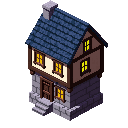
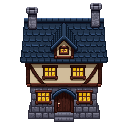
Casa de frente, escada que existe, e movel que para de entrar na parede
🔴 A ESCADA NAO EXISTIA COMO ARTE, so como mecanica. O `>` da planta virava
`stone_slab` — uma laje — e o link que sobe ja funcionava. Subia-se por um
pedaco de chao sem nada a vista. O dono: *"nao tem escada, construa ela"*.
✅ Agora ela e desenhada como movel MAS o tile continua `stone_slab`, ANDAVEL:
o servidor consulta o `floorLink` so DEPOIS de aprovar o passo, entao escada
solida seria escada que ninguem sobe. Precisa das duas coisas, e cada uma vem
de um lugar.

✅ A CASA VIROU DE FRENTE. A primeira saiu em tres quartos, com a porta na face
ESQUERDA — mas o jogador chega pelo SUL, onde a planta poe a porta. Ele
atravessava a fachada num ponto sem porta nenhuma no desenho.
⚠ Nao e capricho de angulo: em jogo top-down o jogador so encosta na casa pelas
quatro direcoes da grade, e a porta tem de cair numa delas.

🔴 E O "MOVEL ENTRANDO NA PAREDE" tinha causa no MOTOR, nao no meu desenho: ele
desenha parede com efeito 2.5D, e a face dela sobe `WALL_H` px **cobrindo o tile
de cima**. Movel na fileira logo acima da parede de baixo fica ATRAS dessa face,
e o zIndex confirma — a parede (linha maior) desenha por cima.
✅ A mobilia saiu dessa fileira. A parede de CIMA nao tem o problema, porque
sobe para fora do comodo: por isso os moveis se encostam no topo e nas laterais,
nunca na base.
✅ Mais 10% de folga no desenho do bloco, para o movel nao lamber a borda.

Verificado: a escada e andavel, tem link e e desenhada nos dois andares; e
[…]

diff --git a/shared/src/buildings.ts b/shared/src/buildings.ts
@@ -213,12 +213,22 @@ export const ANDARES: readonly AndarDef[] = [
      *
      * A porta é o `e` na parede de baixo — um VÃO, sem link nenhum.
      */
+    /*
+     * ⚠ A FILEIRA LOGO ACIMA DA PAREDE DE BAIXO FICA LIVRE, de propósito.
+     *
+     * O motor desenha parede com efeito 2.5D: a face dela sobe `WALL_H` px e
+     * **cobre o tile de cima**. Móvel ali é desenhado ATRÁS dessa face, e o
+     * dono viu como *"objetos entrando dentro da parede"*.
+     *
+     * A parede de cima não tem esse problema — ela sobe para fora do cômodo.
+     * Por isso a mobília se encosta no topo e nas laterais, nunca na base.
+     */
     planta: [
       '#######',
       '#M...K#',
       '#..>..#',
-      '#.....#',
       '#R...G#',
+      '#.....#',
       '###e###',
     ],
   },
@@ -229,12 +239,13 @@ export const ANDARES: readonly AndarDef[] = [
     // Mesma posição do térreo: os andares se empilham.
     x0: 169, y0: 147,
     // Mesmo tamanho do térreo — os andares se empilham, então têm de casar.
+    // ⚠ Mesma regra do térreo: nada de móvel encostado na parede de BAIXO.
     planta: [
       '#######',
       '#CC..A#',
       '#CC<..#',
-      '#CC...#',
-      '#B....#',
+      '#CCB..#',
+      '#.....#',
       '#######',
     ],
   },
@@ -253,6 +264,17 @@ export const ANDARES: readonly AndarDef[] = [
  * e caminho fechado o teste de rota pega.
  */
 export const MOVEL_DA_LETRA: Record<string, string> = {
+  /*
+   * 🔴 A ESCADA É DESENHADA COMO MÓVEL, mas o tile dela NÃO é `furniture`.
+   *
+   * Ela precisa das duas coisas ao mesmo tempo, e cada uma vem de um lugar:
+   * o **desenho** daqui (senão sobe-se por um pedaço de chão vazio, que foi o
+   * que o dono viu), e o tile continua `stone_slab` — **andável** — porque o
+   * servidor consulta o `floorLink` só DEPOIS de aprovar o passo. Escada sólida
+   * seria escada que ninguém sobe.
+   */
+  '>': 'escada',
+  '<': 'escada',
   C: 'cama',
   B: 'bau',
   A: 'armario',

diff --git a/client/src/main.ts b/client/src/main.ts
@@ -1553,8 +1553,16 @@ async function startGame(playerName: string, charClass: PlayerClass, gender: Gen
   function makeMovel(m: MovelPosto, mv: MovelSprite): Container {
     const c = new Container();
     const s = new Sprite(mv.tex);
-    const larg = (m.x1 - m.x0 + 1) * TS;
-    const alt = (m.y1 - m.y0 + 1) * TS;
+    /*
+     * ⚠ FOLGA de 10%: o móvel é desenhado um pouco menor que o bloco.
+     *
+     * Sem ela, o desenho encosta na borda do bloco e o olho lê como se ele
+     * invadisse o tile vizinho — que é parede na maioria dos casos. Um móvel
+     * ligeiramente afastado da parede é o que um móvel de verdade faz.
+     */
+    const FOLGA = 0.9;
+    const larg = (m.x1 - m.x0 + 1) * TS * FOLGA;
+    const alt = (m.y1 - m.y0 + 1) * TS * FOLGA;
     s.anchor.set(0.5, 0.5);
     s.width = larg;
     s.height = alt;
